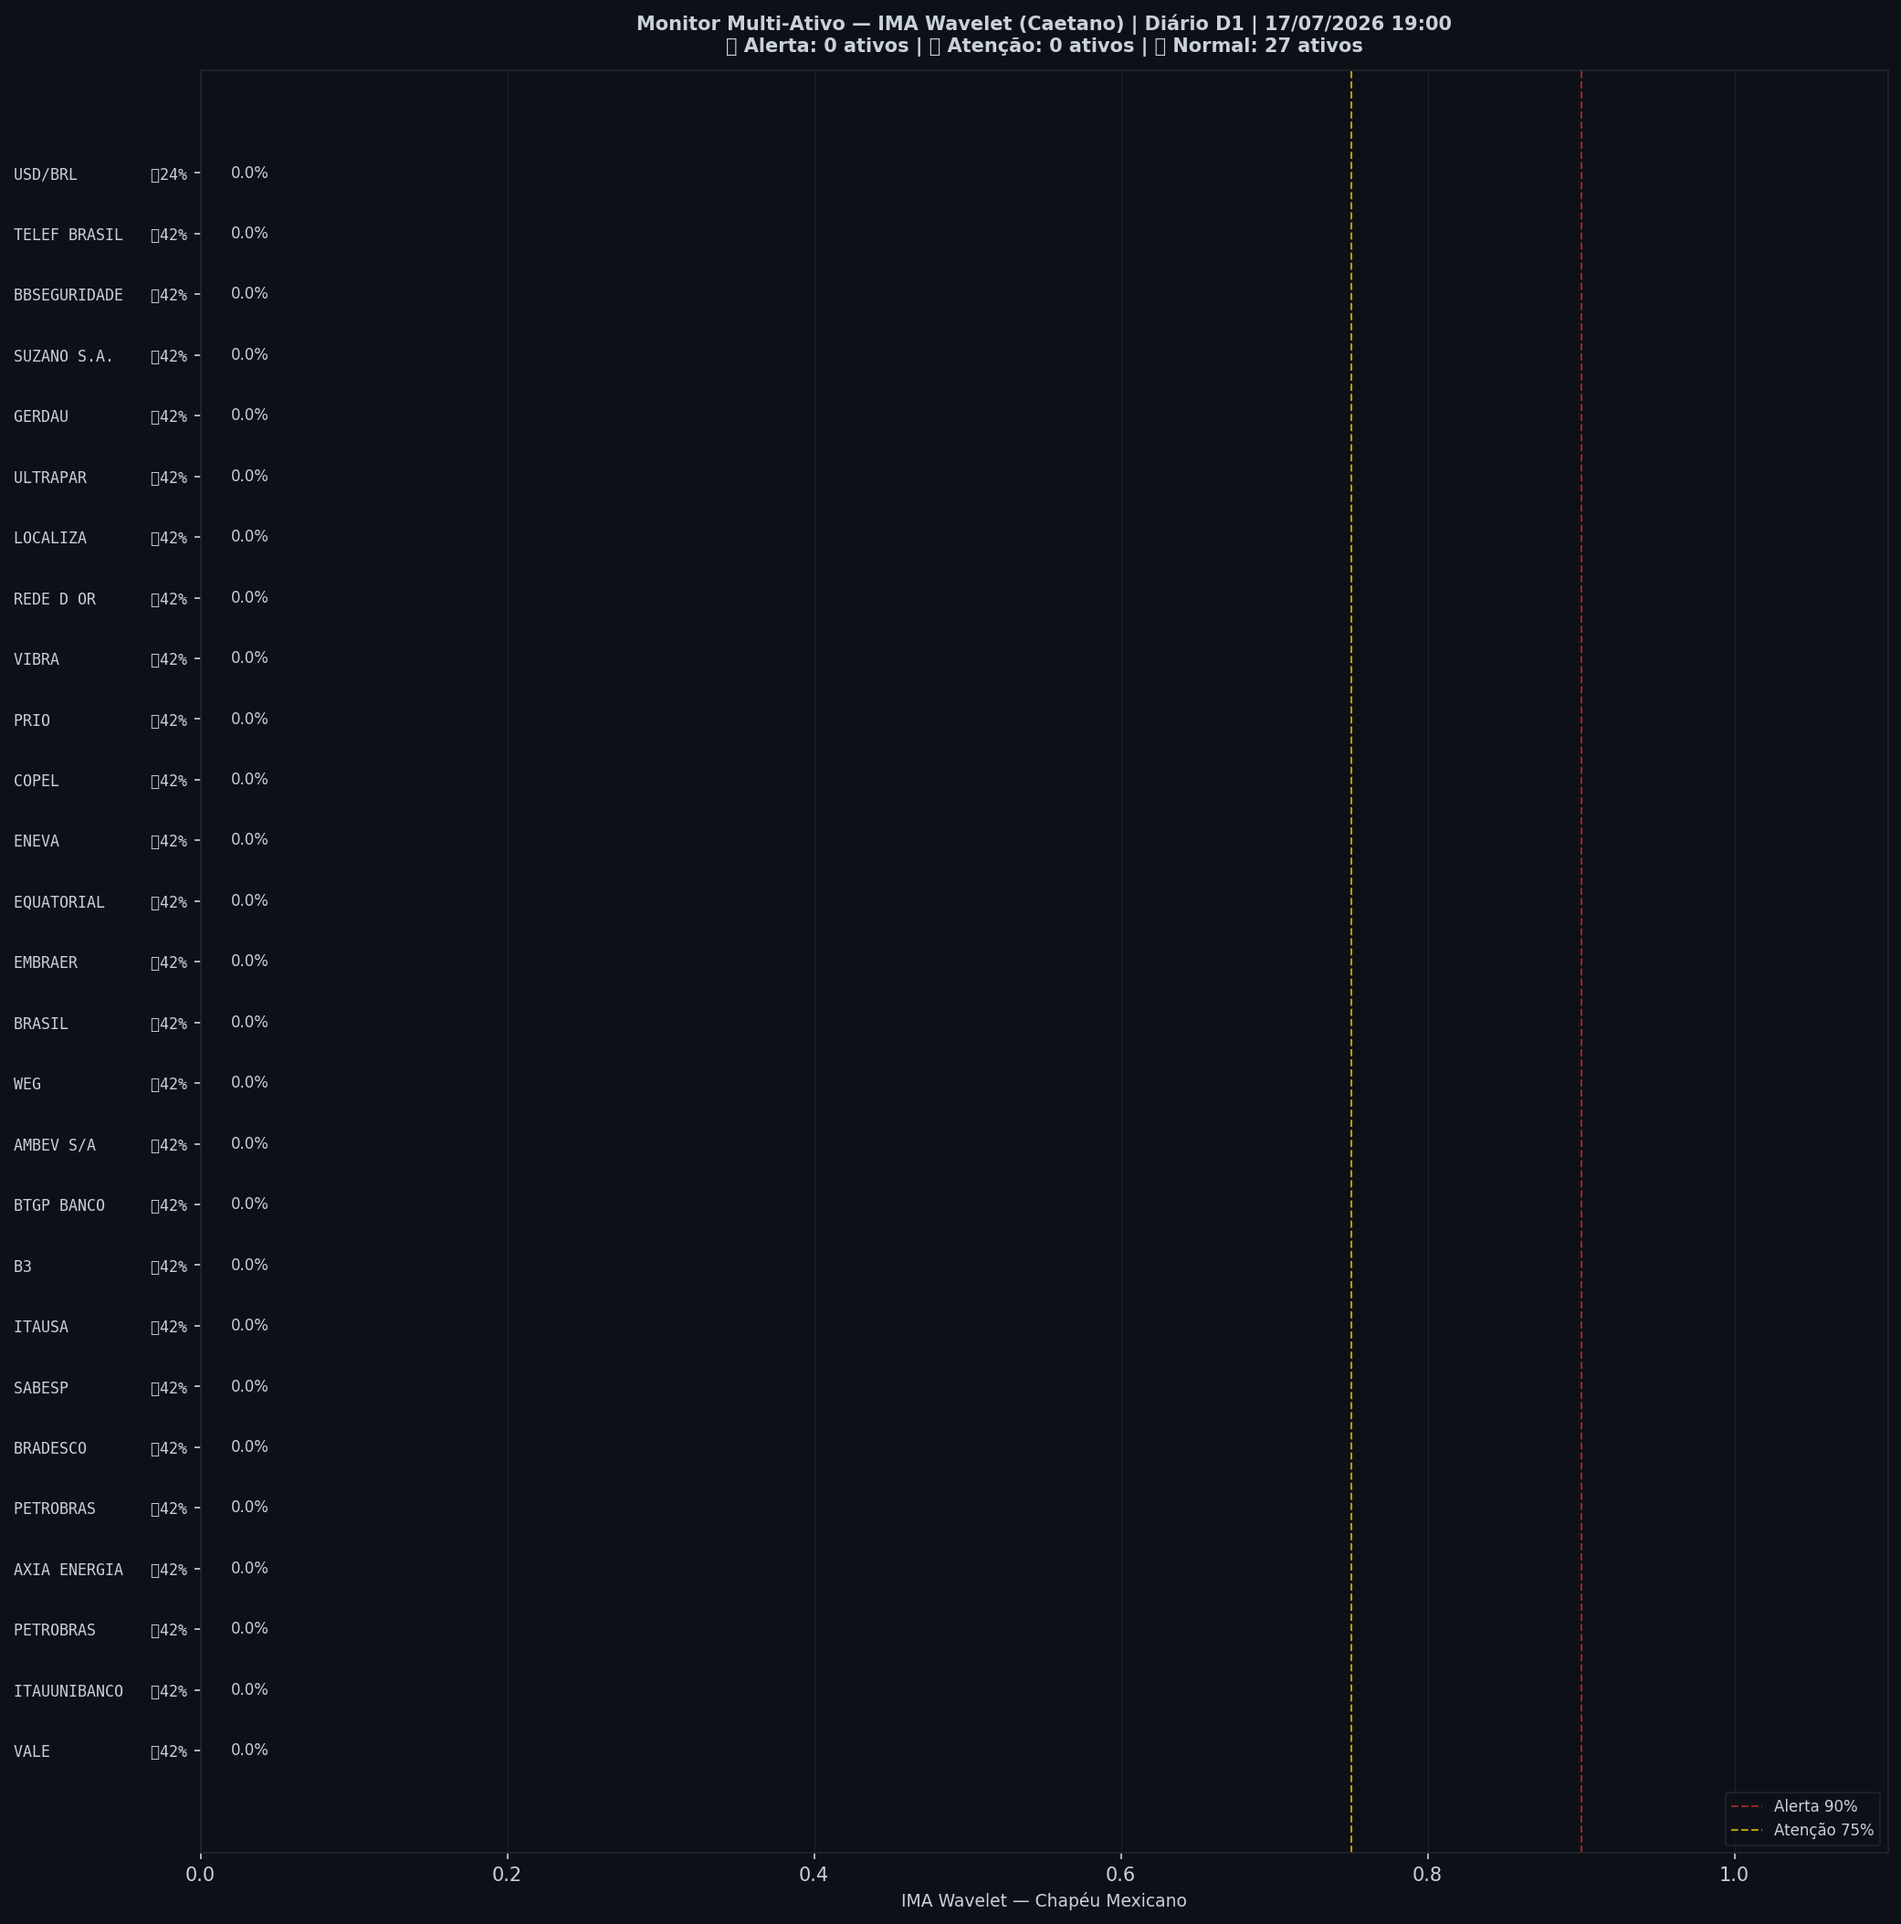
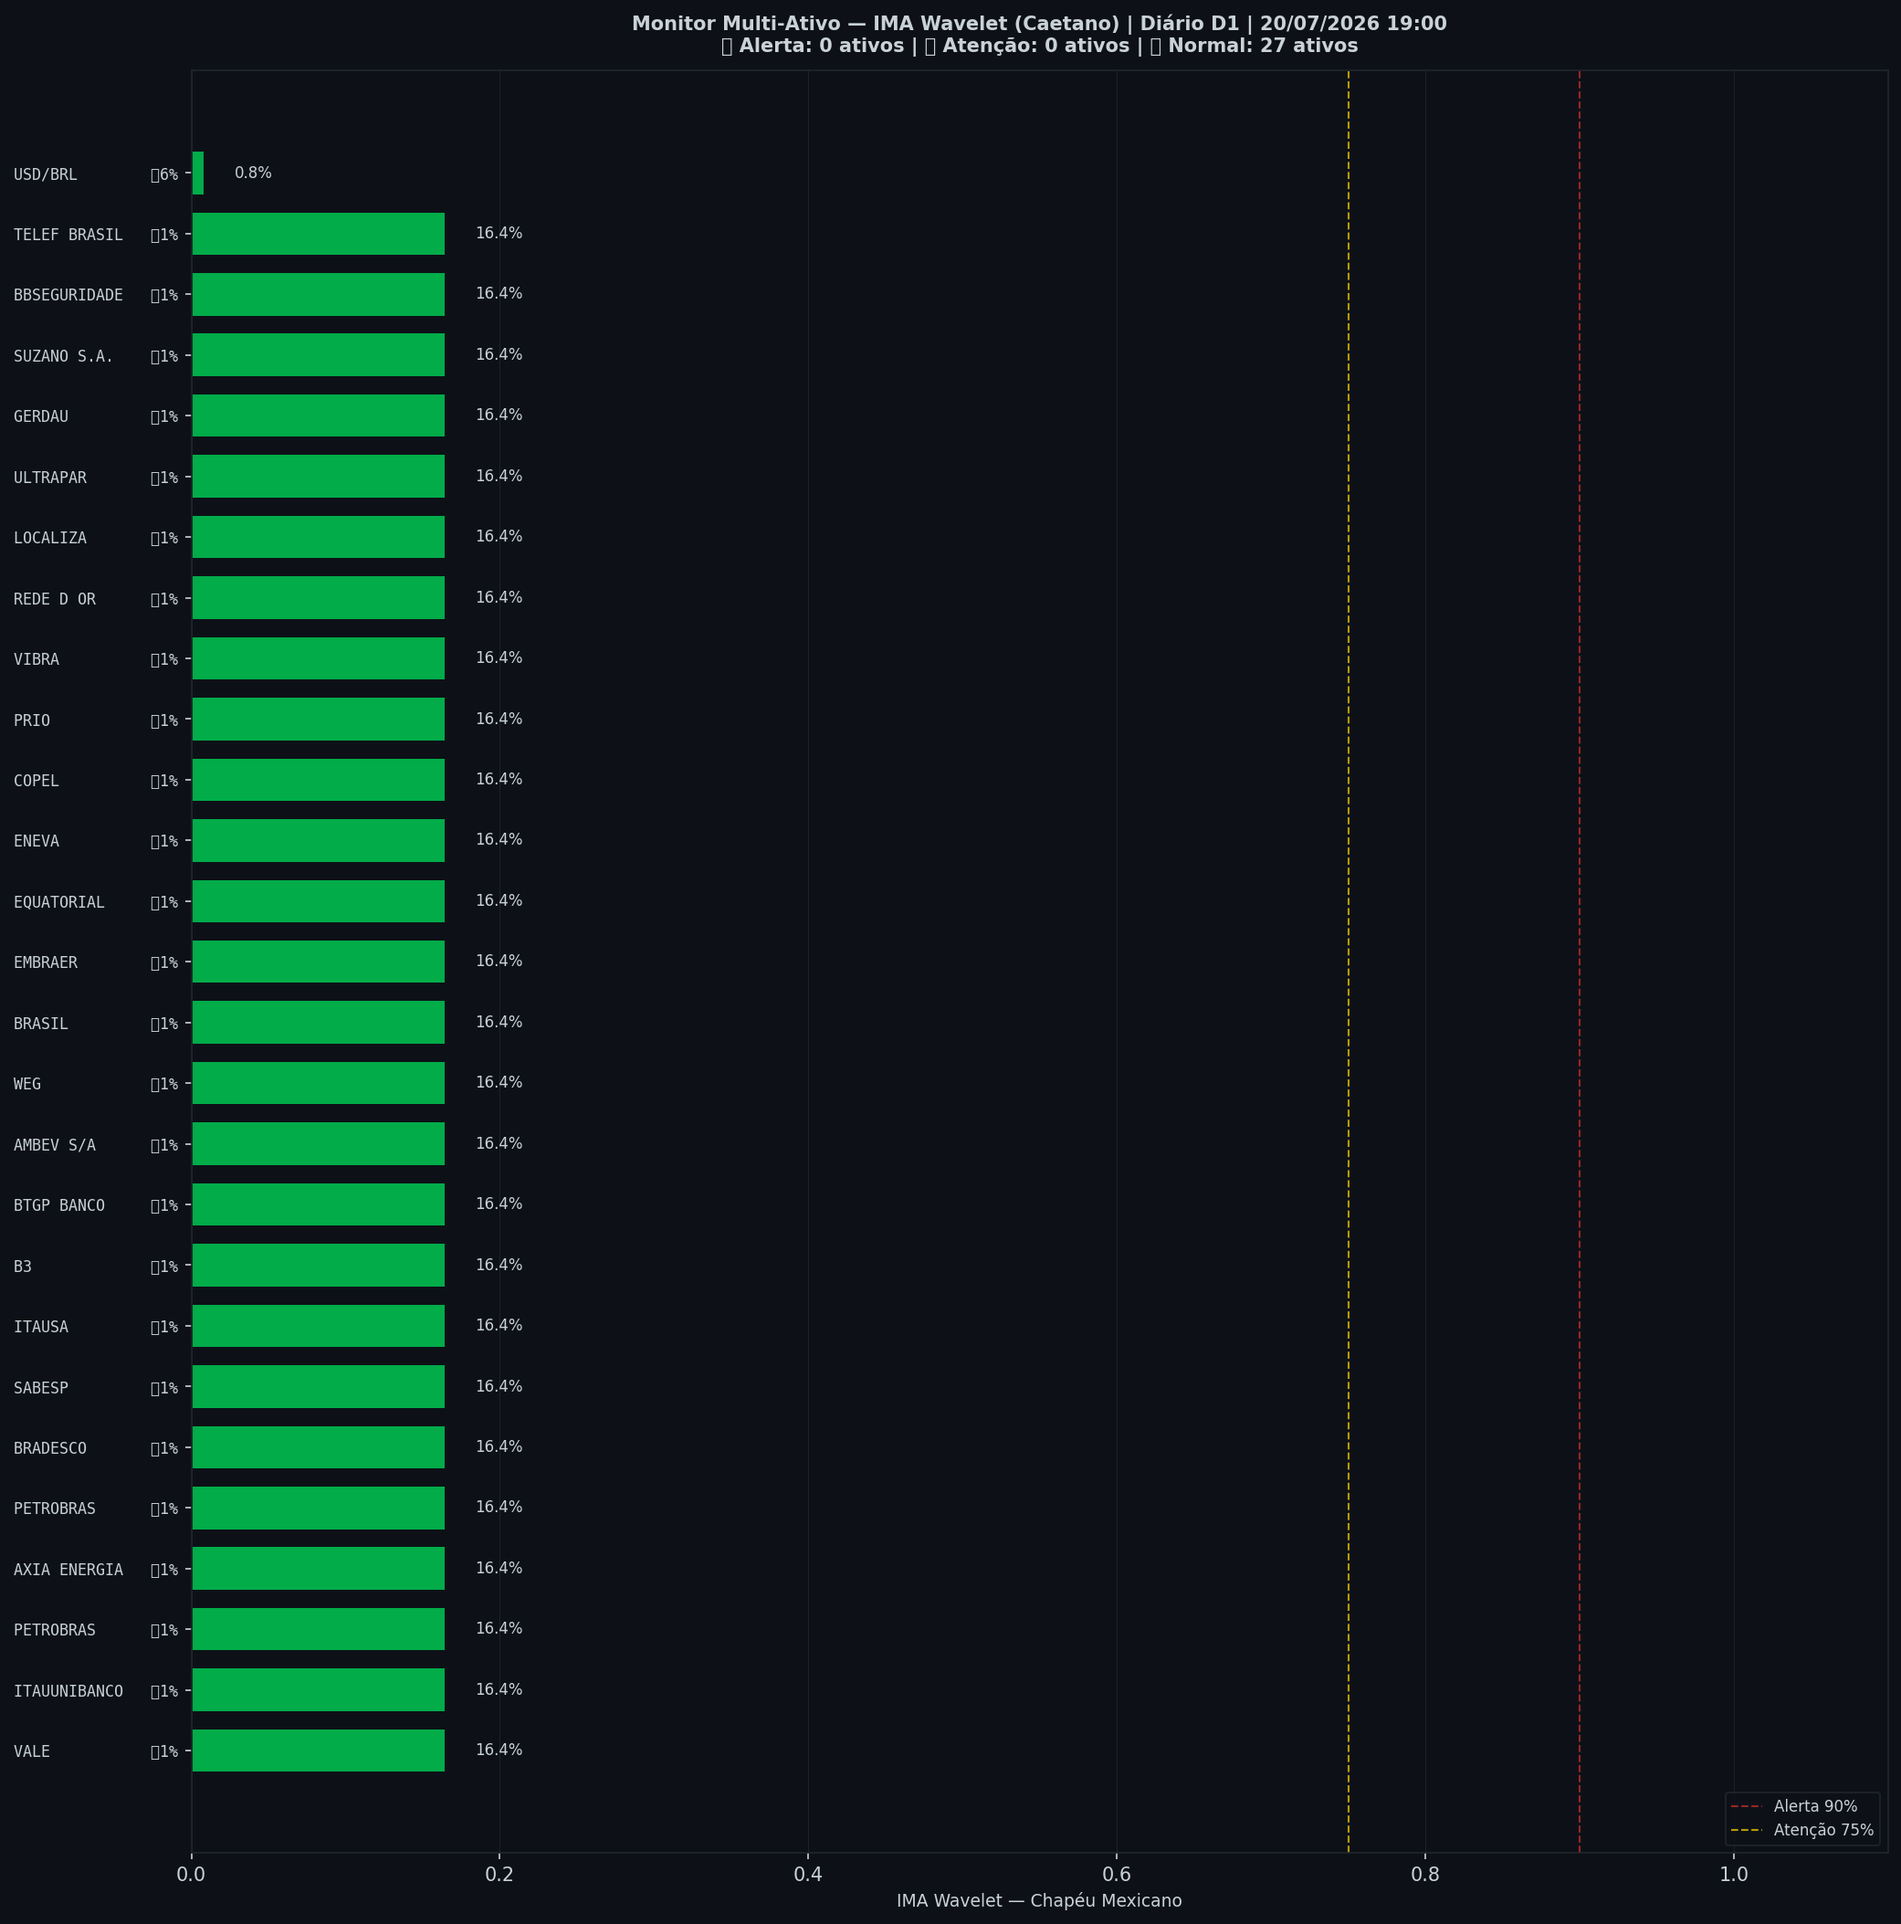
🤖 Auto: Sinal 20/07/2026 19:00

Changed region(s): [[0.0937, 0.0617, 0.2498, 0.9255], [0.3434, 0.0, 0.7493, 0.0308], [0.4683, 0.9563, 0.6244, 1.0]]

diff --git a/content/diario/2026-07-19.md b/content/diario/2026-07-19.md
@@ -1,0 +1,105 @@
+---
+title: "🟢 Diário 19/07/2026 — VERDE"
+date: 2026-07-20
+tags: [diario]
+---
+
+> [!success] 🟢 **VERDE** — Risco 0% · ＝ +0 p.p. vs leitura anterior
+> `░░░░░░░░░░░░░░░░░░░░`
+> Mercado sem sinais relevantes de estresse.
+
+
+| Indicador | Valor |
+|---|---|
+| 🔴 ζ Crash — severidade da queda em curso | **1%** |
+| 🔵 ζ Entrada — estrutura de fundo | 79% |
+| 🫧 LPPL DS-Confidence | 0% |
+| 📊 Ibovespa | 173.371 pts |
+
+![Gráfico do sinal](../graficos/sinal_diario.png)
+
+## Últimos 30 pregões
+
+| Data | Zona | Risco | IMA Crash | Entrada | LPPL |
+|---|---|---|---|---|---|
+| 2026-07-19 21:00 | 🟢 VERDE | **0%** | 1% | 79% | 0% |
+| 2026-07-16 21:00 | 🟢 VERDE | **0%** | 0% | 80% | 0% |
+| 2026-07-15 21:00 | 🟢 VERDE | **0%** | 1% | 80% | 0% |
+| 2026-07-14 21:00 | 🟢 VERDE | **1%** | 2% | 81% | 0% |
+| 2026-07-13 21:00 | 🟢 VERDE | **0%** | 1% | 85% | 0% |
+| 2026-07-12 21:00 | 🟢 VERDE | **0%** | 0% | 91% | 0% |
+| 2026-07-09 21:00 | 🟢 VERDE | **0%** | 0% | 91% | 0% |
+| 2026-07-08 21:00 | 🟢 VERDE | **0%** | 1% | 94% | 0% |
+| 2026-07-07 21:00 | 🟢 VERDE | **0%** | 1% | 93% | 0% |
+| 2026-07-06 21:00 | 🟢 VERDE | **0%** | 0% | 91% | 0% |
+| 2026-07-05 21:00 | 🟢 VERDE | **0%** | 0% | 93% | 0% |
+| 2026-07-02 21:00 | 🟢 VERDE | **0%** | 0% | 94% | 0% |
+| 2026-07-01 21:00 | 🟢 VERDE | **0%** | 1% | 94% | 0% |
+| 2026-06-30 21:00 | 🟢 VERDE | **0%** | 1% | 94% | 0% |
+| 2026-06-29 21:00 | 🟢 VERDE | **0%** | 0% | 95% | 0% |
+| 2026-06-28 21:00 | 🟢 VERDE | **0%** | 0% | 96% | 0% |
+| 2026-06-25 21:00 | 🟢 VERDE | **0%** | 0% | 98% | 0% |
+| 2026-06-24 21:00 | 🟢 VERDE | **0%** | 0% | 98% | 0% |
+| 2026-06-23 21:00 | 🟢 VERDE | **0%** | 0% | 99% | 0% |
+| 2026-06-22 21:00 | 🟢 VERDE | **0%** | 0% | 100% | 0% |
+| 2026-06-21 21:00 | 🟢 VERDE | **0%** | 0% | 99% | 0% |
+| 2026-06-18 21:00 | 🟢 VERDE | **0%** | 0% | 99% | 0% |
+| 2026-06-17 21:00 | 🟢 VERDE | **0%** | 1% | 98% | 0% |
+| 2026-06-16 21:00 | 🟢 VERDE | **0%** | 1% | 98% | 0% |
+| 2026-06-15 21:00 | 🟢 VERDE | **0%** | 1% | 98% | 0% |
+| 2026-06-14 21:00 | 🟢 VERDE | **0%** | 0% | 98% | 0% |
+| 2026-06-11 21:00 | 🟢 VERDE | **0%** | 0% | 99% | 0% |
+| 2026-06-10 21:00 | 🟢 VERDE | **0%** | 0% | 100% | 0% |
+| 2026-06-09 21:00 | 🟢 VERDE | **0%** | 0% | 100% | 0% |
+| 2026-06-08 21:00 | 🟢 VERDE | **0%** | 1% | 99% | 0% |
+
+## Monitor Multi-Ativo
+
+**0% dos ativos em tensão** (0🔴 0🟡) — quanto mais ativos disparam juntos, mais confiável o sinal.
+
+| Zona | Ativo | Setor | IMA Crash | IMA Entrada |
+|---|---|---|---|---|
+| 🟢 | **VALE** | Mineração | 16.4% | 0.8% |
+| 🟢 | **ITAUUNIBANCO** | Financeiro | 16.4% | 0.8% |
+| 🟢 | **PETROBRAS** | Petróleo | 16.4% | 0.8% |
+| 🟢 | **AXIA ENERGIA** | Energia | 16.4% | 0.8% |
+| 🟢 | **PETROBRAS** | Petróleo | 16.4% | 0.8% |
+| 🟢 | **BRADESCO** | Financeiro | 16.4% | 0.8% |
+| 🟢 | **SABESP** | Saneamento | 16.4% | 0.8% |
+| 🟢 | **ITAUSA** | Financeiro | 16.4% | 0.8% |
+| 🟢 | **B3** | Financeiro | 16.4% | 0.8% |
+| 🟢 | **BTGP BANCO** | Financeiro | 16.4% | 0.8% |
+| 🟢 | **AMBEV S/A** | Consumo | 16.4% | 0.8% |
+| 🟢 | **WEG** | Industrial | 16.4% | 0.8% |
+| 🟢 | **BRASIL** | Financeiro | 16.4% | 0.8% |
+| 🟢 | **EMBRAER** | Outros | 16.4% | 0.8% |
+| 🟢 | **EQUATORIAL** | Energia | 16.4% | 0.8% |
+| 🟢 | **ENEVA** | Energia | 16.4% | 0.8% |
+| 🟢 | **COPEL** | Energia | 16.4% | 0.8% |
+| 🟢 | **PRIO** | Petróleo | 16.4% | 0.8% |
+| 🟢 | **VIBRA** | Energia | 16.4% | 0.8% |
+| 🟢 | **REDE D OR** | Saúde | 16.4% | 0.8% |
+| 🟢 | **LOCALIZA** | Aluguel | 16.4% | 0.8% |
+| 🟢 | **ULTRAPAR** | Outros | 16.4% | 0.8% |
+| 🟢 | **GERDAU** | Siderurgia | 16.4% | 0.8% |
+| 🟢 | **SUZANO S.A.** | Papel/Celulose | 16.4% | 0.8% |
+| 🟢 | **BBSEGURIDADE** | Financeiro | 16.4% | 0.8% |
+| 🟢 | **TELEF BRASIL** | Outros | 16.4% | 0.8% |
+| 🟢 | **USD/BRL** | Câmbio | 0.8% | 6.2% |
+
+![Monitor multi-ativo](../graficos/multi_diario.png)
+
+*Página atualizada em 20/07/2026 19:00 BRT (leitura da barra de 2026-07-19 BRT).*
+
+> [!info]- Como interpretar (clique para expandir)
+> - **ζ Crash**: fração dos coeficientes wavelet acima do corte (Caetano & Yoneyama 2009). Escala absoluta: ζ=0,90 = 90% dos coeficientes anômalos — historicamente, quedas com ζ≥0,90 foram mais fundas e mais longas. **Mede a severidade do movimento em curso, não prevê o início da queda.**
+> - **ζ Entrada**: coeficientes negativos além do corte — estrutura de fundo, possível região de compra.
+> - **LPPL DS-Confidence**: fração de janelas (60–504 pregões) em que o modelo de bolha de Sornette produz um ajuste válido. 30% já é relevante; acima de 50% é forte evidência de estrutura de bolha.
+> - **Zonas com histerese**: o sinal só muda de zona ao cruzar o limiar de entrada, e só volta ao cruzar o de saída — evita flip-flop diário.
+
+
+---
+*Sinal de Crise B3 v4 · IMA Wavelet ([Caetano & Yoneyama, Physica-A 2007](https://doi.org/10.1016/j.physa.2007.03.054)) + LPPL DS-Confidence (Sornette, ETH-Zurich) · [Metodologia](metodologia) · [Histórico](historico)*
+
+> [!quote]- Aviso
+> Estudo acadêmico. Não constitui recomendação de investimento.

diff --git a/content/index.md b/content/index.md
@@ -8,9 +8,9 @@ tags: [home]
 
 Monitoramento diário e intraday do Ibovespa — **IMA Wavelet** (Prof. Marco Antonio Leonel Caetano, ITA/INSPER) + **LPPL DS-Confidence** (Prof. Didier Sornette, ETH-Zurich).
 
-*Última atualização: 20/07/2026 17:30 BRT · ^BVSP · Intraday 15min · v4*
+*Última atualização: 20/07/2026 19:00 BRT · ^BVSP · Diário D1 · v4*
 
-> [!success] 🟢 **VERDE** — Risco 1% · ＝ +0 p.p. vs leitura anterior
+> [!success] 🟢 **VERDE** — Risco 0% · ＝ +0 p.p. vs leitura anterior
 > `░░░░░░░░░░░░░░░░░░░░`
 > Mercado sem sinais relevantes de estresse.
 
@@ -18,11 +18,11 @@ Monitoramento diário e intraday do Ibovespa — **IMA Wavelet** (Prof. Marco An
 | Indicador | Valor |
 |---|---|
 | 🔴 ζ Crash — severidade da queda em curso | **1%** |
-| 🔵 ζ Entrada — estrutura de fundo | 0% |
+| 🔵 ζ Entrada — estrutura de fundo | 79% |
 | 🫧 LPPL DS-Confidence | 0% |
-| 📊 Ibovespa | 173.649 pts |
+| 📊 Ibovespa | 173.371 pts |
 
-**Multi-ativo:** 100% em tensão (0🔴 27🟡 de 27 ativos)
+**Multi-ativo:** 0% em tensão (0🔴 0🟡 de 27 ativos)
 
 
 > [!tip]- Calibração v4 (backtest 15y)
@@ -32,8 +32,13 @@ Monitoramento diário e intraday do Ibovespa — **IMA Wavelet** (Prof. Marco An
 
 | Data | Zona | Risco | IMA | LPPL |
 |---|---|---|---|---|
-| [20 Jul 2026](diario/2026-07-20) | 🟢 VERDE | **1%** | 1% | 0% |
-| [17 Jul 2026](diario/2026-07-17) | 🟢 VERDE | **0%** | 0% | 0% |
+| [19 Jul 2026](diario/2026-07-19) | 🟢 VERDE | **0%** | 1% | 0% |
+| [16 Jul 2026](diario/2026-07-16) | 🟢 VERDE | **0%** | 0% | 0% |
+| [15 Jul 2026](diario/2026-07-15) | 🟢 VERDE | **0%** | 1% | 0% |
+| [14 Jul 2026](diario/2026-07-14) | 🟢 VERDE | **1%** | 2% | 0% |
+| [13 Jul 2026](diario/2026-07-13) | 🟢 VERDE | **0%** | 1% | 0% |
+| [12 Jul 2026](diario/2026-07-12) | 🟢 VERDE | **0%** | 0% | 0% |
+| [09 Jul 2026](diario/2026-07-09) | 🟢 VERDE | **0%** | 0% | 0% |
 
 ## Navegação
 

diff --git a/content/historico.md b/content/historico.md
@@ -7,6 +7,7 @@ tags: [historico]
 
 | Data | Modo | Zona | Risco | IMA | LPPL |
 |---|---|---|---|---|---|
+| 2026-07-19 | diario | 🟢 VERDE | 0% | 1% | 0% |
 | 2026-07-20 16:45 | intraday | 🟢 VERDE | 1% | 1% | 0% |
 | 2026-07-20 16:30 | intraday | 🟢 VERDE | 1% | 1% | 0% |
 | 2026-07-20 16:15 | intraday | 🟢 VERDE | 2% | 2% | 0% |
